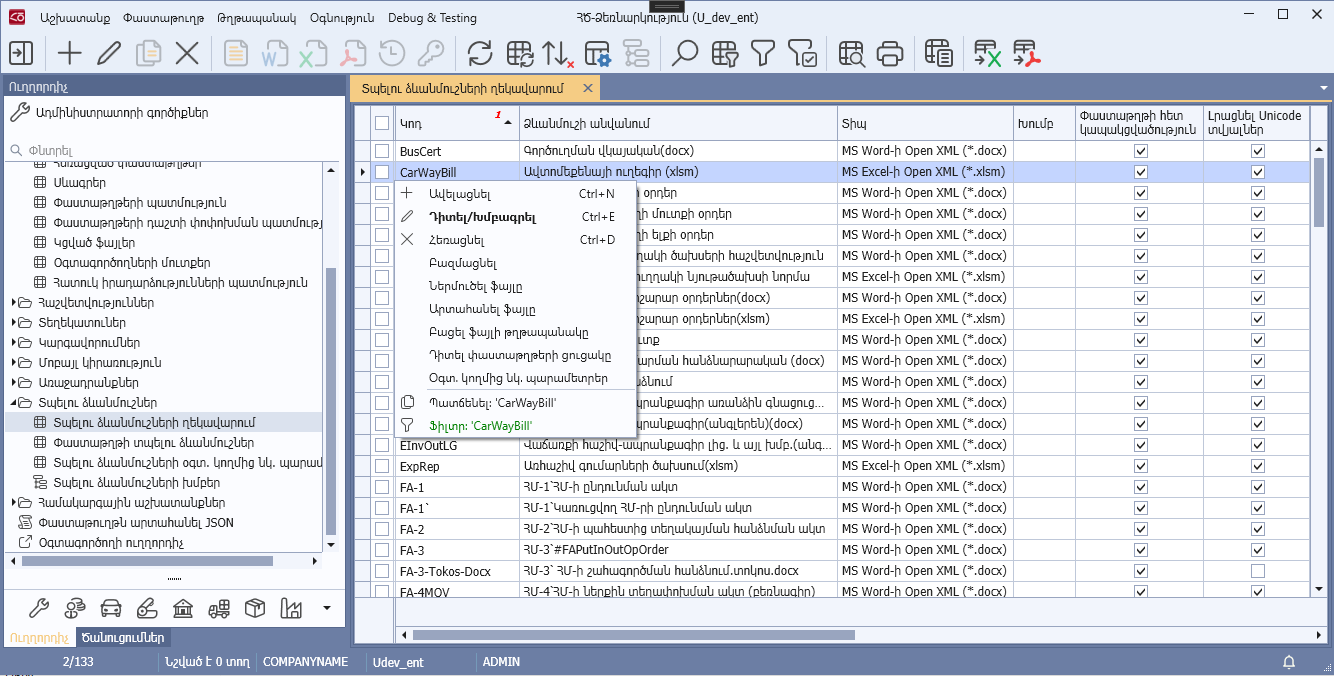
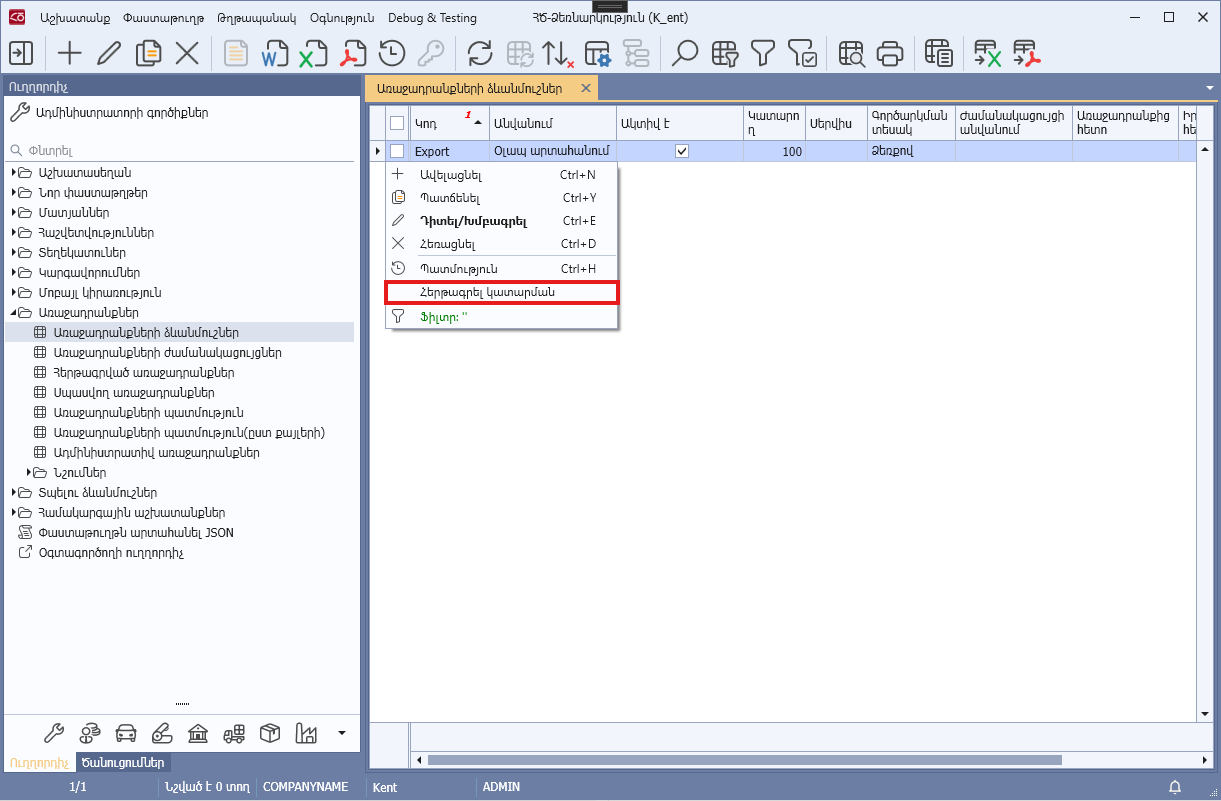
Changed InitContextFunctions description, and Example term in some DataView descriptions.

Changed region(s): [[0.0, 0.0, 1.0, 1.0], [0.9959, 0.963, 1.0, 0.9941]]

diff --git a/src/ui/DataView/Methods/InitContextFunctions.md b/src/ui/DataView/Methods/InitContextFunctions.md
@@ -14,15 +14,15 @@ grand_parent: "DataView"
 public virtual PopupMenu InitContextFunctions()
 ```
 
-Ստեղծում և վերադարձնում է դիտելու ձևի կոնտեքստային մենյուն։ 
+Ստեղծում և վերադարձնում է դիտելու ձևի կոնտեքստային մենյուն։ Մենյուում ավտոմատ կերպով ցուցադրվում են նաև համակարգային կոնտեքստային ֆունկցիաները («Ավելացնել», «Հեռացնել», «Դիտել/Խմբագրել», ․․․), որոնց հասանելիությունը կարգավորվում է [AllowAdd](../Properties/AllowAdd.md), [AllowDelete](../Properties/AllowDelete.md), [AllowEdit](../Properties/AllowEdit.md) և համանման հատկությունների միջոցով։
 
-Օրինակ
+**Օրինակ**
 
 ```c#
 public override PopupMenu InitContextFunctions()
 {
     var panel = this.Panel.InitContextMenu();
-    panel.AddContextFunction(nameof(ViewStepReport), "Կատարման մանրամասներ", ViewStepReport, FunctionAvailability.CurrentRow);
+    panel.AddContextFunction(nameof(ScheduleForExecution), "Հերթագրել կատարման", ScheduleForExecution, FunctionAvailability.CurrentRow);
     return panel;
 }
 ```

diff --git a/src/ui/DataView/Methods/AddFirstPhase.md b/src/ui/DataView/Methods/AddFirstPhase.md
@@ -16,7 +16,7 @@ protected virtual void AddFirstPhase()
 
 Սահմանում է դիտելու ձևի կատարման պրոգրեսի առաջին փուլի (phase) տեքստը։ Լռությամբ արժեքը «Տվյալների մշակում» է։
 
-Օրինակ 
+**Օրինակ** 
 
 ```c#
 protected override void AddFirstPhase()

diff --git a/src/ui/DataView/Methods/ApplyDialog.md b/src/ui/DataView/Methods/ApplyDialog.md
@@ -23,7 +23,7 @@ public virtual void ApplyDialog(DataViewDialogWindow dialog, bool isRefreshMode)
 | dialog | DataViewDialogWindow | - | Դիտելու ձևի նախնական ֆիլտրման դիալոգը։ |
 | isRefreshMode | bool | - | Պարամետրը վերադարձնում է, արդյոք նախնական ֆիլտրման դիալոգը բացվել է դիտելու ձևի սկզբնական բացման պահին, թե ծրագրի Toolbar-ի **«Փոխել պարամետրերը»** (Ctrl + G) կոճակի միջոցով։ |
 
-Օրինակ 
+**Օրինակ** 
 
 ```c#
 public override void ApplyDialog(DataViewDialogWindow dialog, bool isRefreshMode)

diff --git a/src/ui/DataView/Methods/CaptionToolTip.md b/src/ui/DataView/Methods/CaptionToolTip.md
@@ -16,7 +16,7 @@ public virtual string CaptionToolTip()
 
 Սահմանում է դիտելու ձևի tooltip-ում ցուցադրվող տեքստը: Լռությամբ ցուցադրում է դիտելու ձևի գլխագիրը (Caption): 
 
-Օրինակ 
+**Օրինակ** 
 
 ```c#
 public override string CaptionToolTip() { return "Փաստաթղթերի ղեկավարում"; }